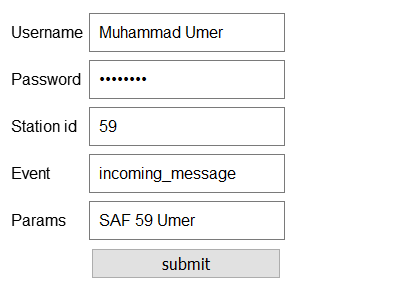
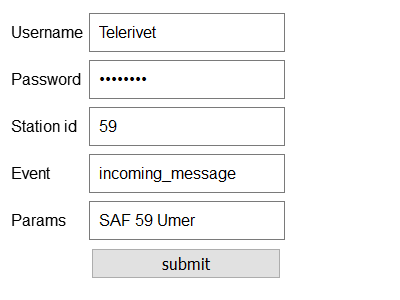
Phantomjs with button click

Changed region(s): [[0.24, 0.09, 0.57, 0.15]]

diff --git a/app.js b/app.js
@@ -231,7 +231,7 @@ var submitForm = function(data){
 
     var sendCommandArgs = [
         path.join(__dirname, 'phantomjs-sendcommand.js'),
-        config.USERNAME , config.PASSWORD , data.station_id , config.EVENT , data.content
+        config.USERNAME , config.PASSWORD , data.station_id , config.EVENT , data.name
     ]
 
     var sendCommand = childProcess.execFile(binPath, sendCommandArgs, function(err, stdout, stderr) {

diff --git a/phantomjs-sendcommand.js b/phantomjs-sendcommand.js
@@ -37,6 +37,8 @@ page.open('http://remotevalue.epitome.com.ng/sendcommand.html', function(status)
             if(params){
                 params.value = args[5];
             }
+
+            document.getElementById('go').click();
         } , args);
         setTimeout(function(){
                 console.log('rendering page')

diff --git a/phantomjs-sharefeel.js b/phantomjs-sharefeel.js
@@ -18,6 +18,7 @@ page.open('http://remotevalue.epitome.com.ng/shareAFeeling.html', function(statu
             if(input){
                 input.value = args[1];
             }
+            document.getElementById('btn1').click();
         } , args);
         setTimeout(function(){
                 console.log('rendering page')
